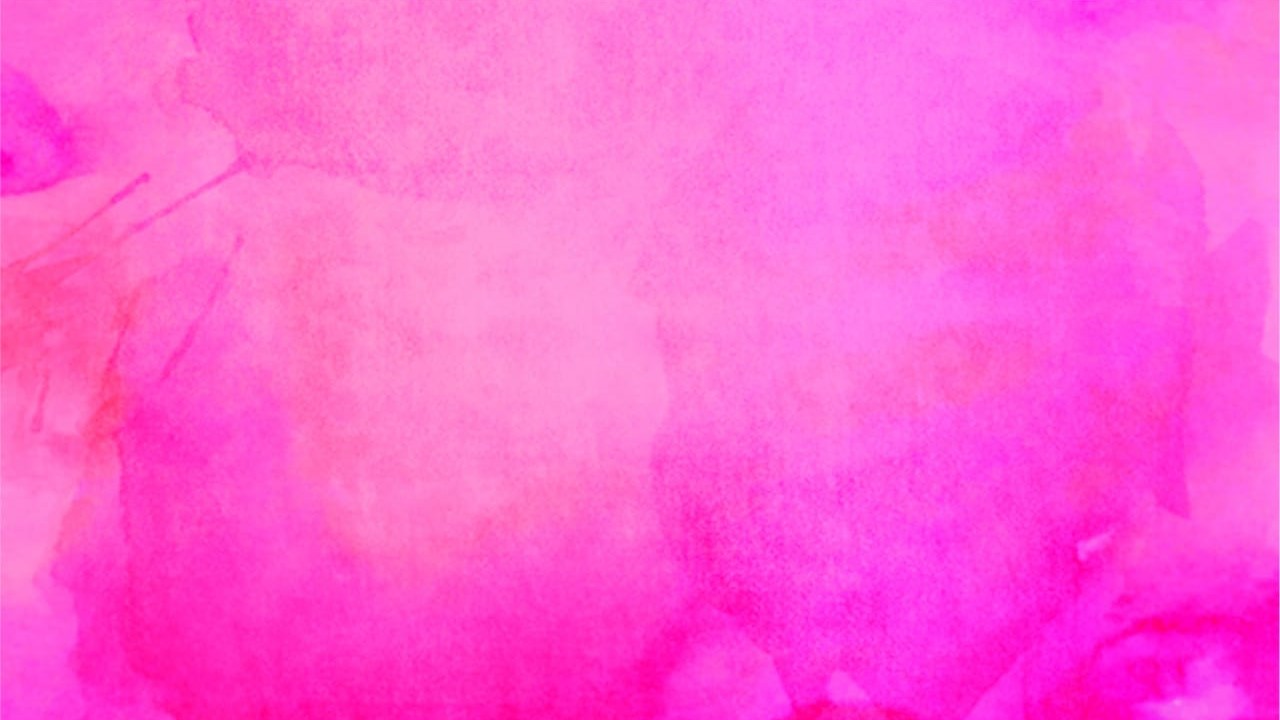
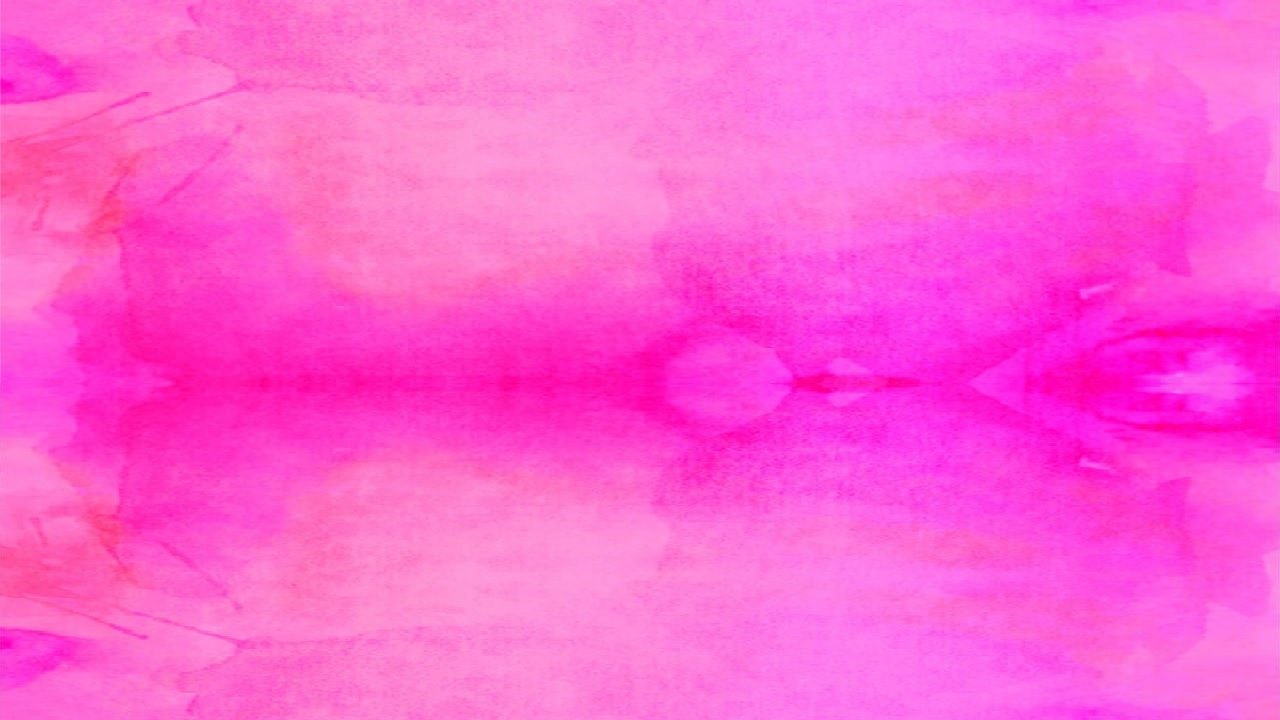
bg-img repeatition fixed

diff --git a/css/styles.css b/css/styles.css
@@ -82,7 +82,7 @@ width:86%;
 }
 
     .btn-hover:hover{
-        background: #ffb0ce;
+        background:  #fd92d6;
     }
     .text-white{
         text-decoration-color: white !important;
